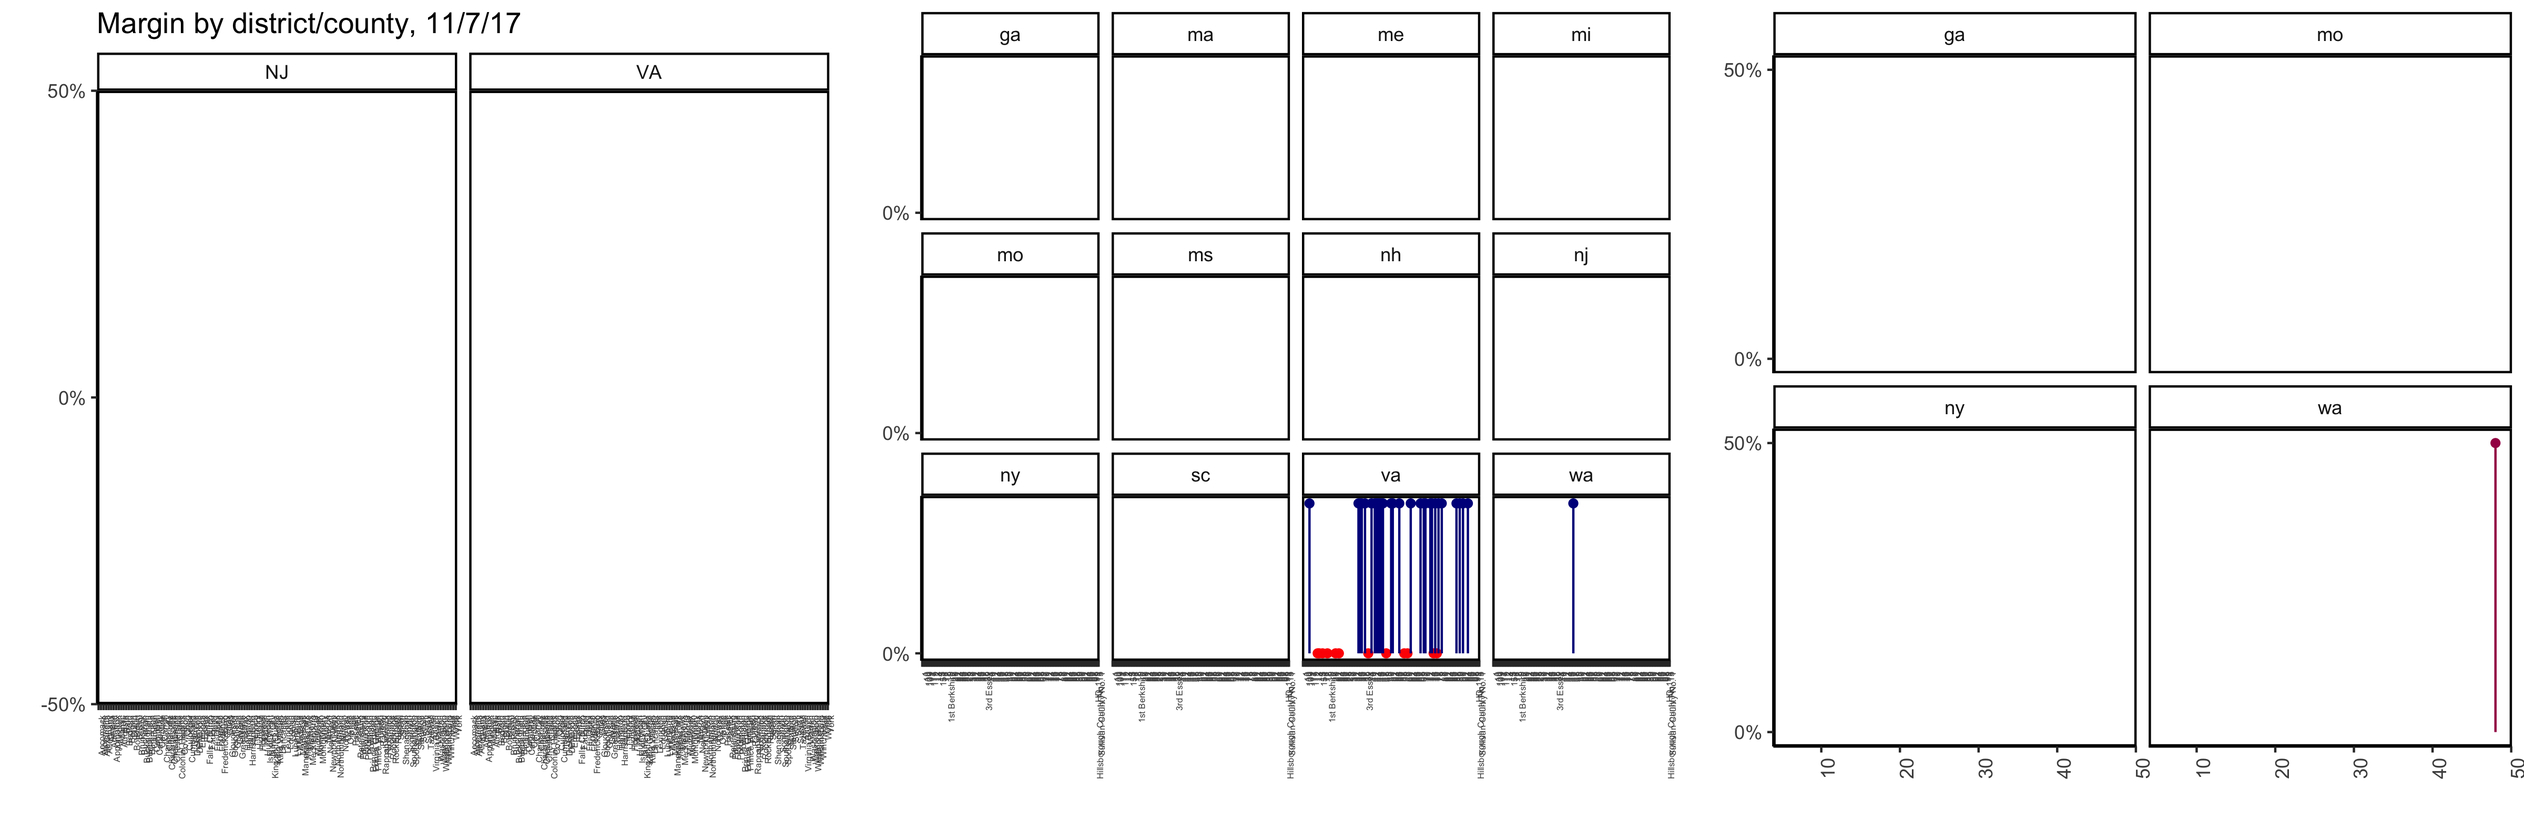
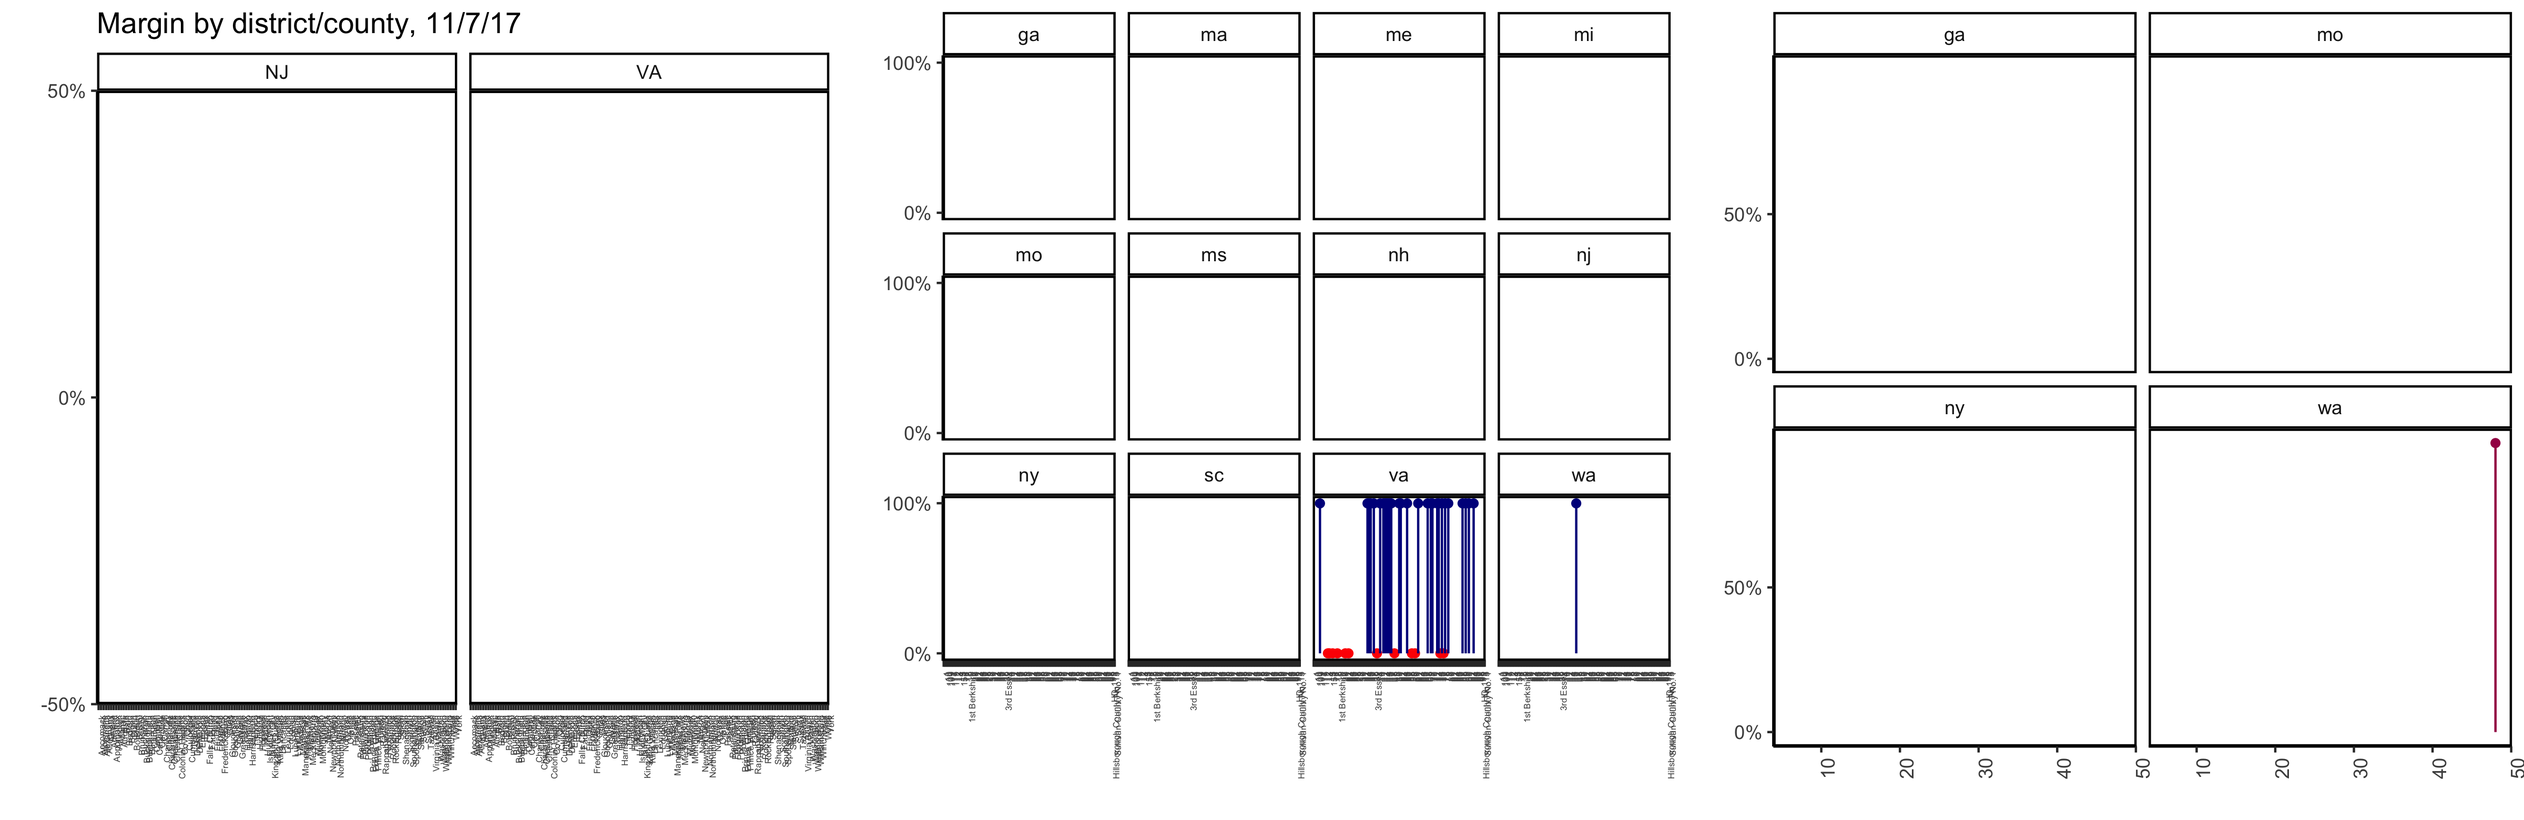
fixed denominator

diff --git a/_posts/r_election_tracker.md b/_posts/r_election_tracker.md
@@ -206,7 +206,7 @@ Here is the data that goes into these graphs.
 | wa    |      31|          -1.0000|               NA|
 | wa    |      45|          -0.0540|               NA|
 | wa    |       7|          -1.0000|               NA|
-| wa    |      48|           0.2980|              0.5|
+| wa    |      48|           0.2980|         0.999001|
 | wa    |      37|           1.0000|               NA|
 
 | State | County                     |  Previous margin|  Tonights margin|
@@ -276,27 +276,27 @@ Here is the data that goes into these graphs.
 | va    | 1                          |       -1.0000000|               NA|
 | va    | 2                          |       -0.0200000|               NA|
 | va    | 3                          |       -1.0000000|               NA|
-| va    | 4                          |       -1.0000000|              0.0|
-| va    | 5                          |       -1.0000000|              0.0|
-| va    | 6                          |       -1.0000000|              0.0|
+| va    | 4                          |       -1.0000000|         0.000000|
+| va    | 5                          |       -1.0000000|         0.000000|
+| va    | 6                          |       -1.0000000|         0.000000|
 | va    | 7                          |       -1.0000000|               NA|
 | va    | 8                          |       -1.0000000|               NA|
 | va    | 9                          |       -1.0000000|               NA|
 | va    | 10                         |       -0.2400000|               NA|
-| va    | 11                         |        1.0000000|              0.5|
+| va    | 11                         |        1.0000000|         0.999001|
 | va    | 12                         |       -0.1600000|               NA|
 | va    | 13                         |       -0.1200000|               NA|
-| va    | 14                         |       -1.0000000|              0.0|
-| va    | 15                         |       -1.0000000|              0.0|
-| va    | 16                         |       -1.0000000|              0.0|
+| va    | 14                         |       -1.0000000|         0.000000|
+| va    | 15                         |       -1.0000000|         0.000000|
+| va    | 16                         |       -1.0000000|         0.000000|
 | va    | 17                         |       -1.0000000|               NA|
 | va    | 18                         |       -1.0000000|               NA|
-| va    | 19                         |       -1.0000000|              0.0|
+| va    | 19                         |       -1.0000000|         0.000000|
 | va    | 20                         |       -0.5200000|               NA|
 | va    | 21                         |       -0.1400000|               NA|
-| va    | 22                         |       -1.0000000|              0.0|
+| va    | 22                         |       -1.0000000|         0.000000|
 | va    | 23                         |       -1.0000000|               NA|
-| va    | 24                         |       -0.4200000|              0.0|
+| va    | 24                         |       -0.4200000|         0.000000|
 | va    | 25                         |       -0.3200000|               NA|
 | va    | 26                         |       -1.0000000|               NA|
 | va    | 27                         |       -0.1800000|               NA|
@@ -307,52 +307,52 @@ Here is the data that goes into these graphs.
 | va    | 32                         |       -0.0600000|               NA|
 | va    | 33                         |       -0.2500000|               NA|
 | va    | 34                         |        0.0000000|               NA|
-| va    | 35                         |        1.0000000|              0.5|
-| va    | 36                         |        1.0000000|              0.5|
-| va    | 37                         |        0.1400000|              0.5|
+| va    | 35                         |        1.0000000|         0.999001|
+| va    | 36                         |        1.0000000|         0.999001|
+| va    | 37                         |        0.1400000|         0.999001|
 | va    | 38                         |        0.5000000|               NA|
-| va    | 39                         |        1.0000000|              0.5|
+| va    | 39                         |        1.0000000|         0.999001|
 | va    | 40                         |       -0.3000000|               NA|
-| va    | 41                         |        1.0000000|              0.5|
+| va    | 41                         |        1.0000000|         0.999001|
 | va    | 42                         |       -0.2600000|               NA|
-| va    | 43                         |        0.3094995|              0.5|
-| va    | 44                         |        1.0000000|              0.5|
-| va    | 45                         |        1.0000000|              0.5|
-| va    | 46                         |        0.3430186|              0.5|
-| va    | 47                         |        0.5600000|              0.5|
-| va    | 48                         |        1.0000000|              0.5|
+| va    | 43                         |        0.3094995|         0.999001|
+| va    | 44                         |        1.0000000|         0.999001|
+| va    | 45                         |        1.0000000|         0.999001|
+| va    | 46                         |        0.3430186|         0.999001|
+| va    | 47                         |        0.5600000|         0.999001|
+| va    | 48                         |        1.0000000|         0.999001|
 | va    | 49                         |        1.0000000|               NA|
 | va    | 50                         |       -0.1800000|               NA|
 | va    | 51                         |       -1.0000000|               NA|
-| va    | 52                         |        1.0000000|              0.5|
-| va    | 53                         |        1.0000000|              0.5|
+| va    | 52                         |        1.0000000|         0.999001|
+| va    | 53                         |        1.0000000|         0.999001|
 | va    | 54                         |       -1.0000000|               NA|
 | va    | 55                         |       -0.2000000|               NA|
 | va    | 56                         |       -1.0000000|               NA|
-| va    | 57                         |        1.0000000|              0.5|
+| va    | 57                         |        1.0000000|         0.999001|
 | va    | 58                         |       -1.0000000|               NA|
 | va    | 59                         |       -1.0000000|               NA|
 | va    | 60                         |       -1.0000000|               NA|
-| va    | 61                         |       -0.4200000|              0.0|
+| va    | 61                         |       -0.4200000|         0.000000|
 | va    | 62                         |       -0.2000000|               NA|
-| va    | 63                         |        1.0000000|              0.5|
+| va    | 63                         |        1.0000000|         0.999001|
 | va    | 64                         |       -1.0000000|               NA|
 | va    | 65                         |       -1.0000000|               NA|
 | va    | 66                         |       -1.0000000|               NA|
 | va    | 67                         |       -1.0000000|               NA|
 | va    | 68                         |       -0.2478476|               NA|
-| va    | 69                         |        1.0000000|              0.5|
-| va    | 70                         |        1.0000000|              0.5|
-| va    | 71                         |        0.7600000|              0.5|
+| va    | 69                         |        1.0000000|         0.999001|
+| va    | 70                         |        1.0000000|         0.999001|
+| va    | 71                         |        0.7600000|         0.999001|
 | va    | 72                         |       -1.0000000|               NA|
 | va    | 73                         |       -1.0000000|               NA|
-| va    | 74                         |        0.5800000|              0.5|
-| va    | 75                         |        1.0000000|              0.5|
-| va    | 76                         |       -1.0000000|              0.0|
-| va    | 77                         |        1.0000000|              0.5|
-| va    | 78                         |       -1.0000000|              0.0|
-| va    | 79                         |        1.0000000|              0.5|
-| va    | 80                         |        1.0000000|              0.5|
+| va    | 74                         |        0.5800000|         0.999001|
+| va    | 75                         |        1.0000000|         0.999001|
+| va    | 76                         |       -1.0000000|         0.000000|
+| va    | 77                         |        1.0000000|         0.999001|
+| va    | 78                         |       -1.0000000|         0.000000|
+| va    | 79                         |        1.0000000|         0.999001|
+| va    | 80                         |        1.0000000|         0.999001|
 | va    | 81                         |       -0.4000000|               NA|
 | va    | 82                         |       -0.3000000|               NA|
 | va    | 83                         |       -1.0000000|               NA|
@@ -361,13 +361,13 @@ Here is the data that goes into these graphs.
 | va    | 86                         |        0.0897360|               NA|
 | va    | 87                         |       -0.0017054|               NA|
 | va    | 88                         |       -1.0000000|               NA|
-| va    | 89                         |        1.0000000|              0.5|
-| va    | 90                         |        1.0000000|              0.5|
+| va    | 89                         |        1.0000000|         0.999001|
+| va    | 90                         |        1.0000000|         0.999001|
 | va    | 91                         |       -1.0000000|               NA|
-| va    | 92                         |        1.0000000|              0.5|
+| va    | 92                         |        1.0000000|         0.999001|
 | va    | 93                         |        0.1000000|               NA|
 | va    | 94                         |       -0.1600000|               NA|
-| va    | 95                         |        0.5400000|              0.5|
+| va    | 95                         |        0.5400000|         0.999001|
 | va    | 96                         |       -0.2200000|               NA|
 | va    | 97                         |       -0.5800000|               NA|
 | va    | 98                         |       -1.0000000|               NA|
@@ -375,4 +375,4 @@ Here is the data that goes into these graphs.
 | va    | 100                        |       -0.1400000|               NA|
 | wa    | 7                          |       -1.0000000|               NA|
 | wa    | 31                         |       -1.0000000|               NA|
-| wa    | 48                         |        1.0000000|              0.5|
+| wa    | 48                         |        1.0000000|         0.999001|

diff --git a/_posts/2017-11-07-election_tracker.md b/_posts/2017-11-07-election_tracker.md
@@ -225,7 +225,7 @@ Here is the data that goes into these graphs.
 |wa    |     31|         -1.0000|              NA|
 |wa    |     45|         -0.0540|              NA|
 |wa    |      7|         -1.0000|              NA|
-|wa    |     48|          0.2980|             0.5|
+|wa    |     48|          0.2980|        0.999001|
 |wa    |     37|          1.0000|              NA|
 
 
@@ -297,27 +297,27 @@ Here is the data that goes into these graphs.
 |va    |1                          |      -1.0000000|              NA|
 |va    |2                          |      -0.0200000|              NA|
 |va    |3                          |      -1.0000000|              NA|
-|va    |4                          |      -1.0000000|             0.0|
-|va    |5                          |      -1.0000000|             0.0|
-|va    |6                          |      -1.0000000|             0.0|
+|va    |4                          |      -1.0000000|        0.000000|
+|va    |5                          |      -1.0000000|        0.000000|
+|va    |6                          |      -1.0000000|        0.000000|
 |va    |7                          |      -1.0000000|              NA|
 |va    |8                          |      -1.0000000|              NA|
 |va    |9                          |      -1.0000000|              NA|
 |va    |10                         |      -0.2400000|              NA|
-|va    |11                         |       1.0000000|             0.5|
+|va    |11                         |       1.0000000|        0.999001|
 |va    |12                         |      -0.1600000|              NA|
 |va    |13                         |      -0.1200000|              NA|
-|va    |14                         |      -1.0000000|             0.0|
-|va    |15                         |      -1.0000000|             0.0|
-|va    |16                         |      -1.0000000|             0.0|
+|va    |14                         |      -1.0000000|        0.000000|
+|va    |15                         |      -1.0000000|        0.000000|
+|va    |16                         |      -1.0000000|        0.000000|
 |va    |17                         |      -1.0000000|              NA|
 |va    |18                         |      -1.0000000|              NA|
-|va    |19                         |      -1.0000000|             0.0|
+|va    |19                         |      -1.0000000|        0.000000|
 |va    |20                         |      -0.5200000|              NA|
 |va    |21                         |      -0.1400000|              NA|
-|va    |22                         |      -1.0000000|             0.0|
+|va    |22                         |      -1.0000000|        0.000000|
 |va    |23                         |      -1.0000000|              NA|
-|va    |24                         |      -0.4200000|             0.0|
+|va    |24                         |      -0.4200000|        0.000000|
 |va    |25                         |      -0.3200000|              NA|
 |va    |26                         |      -1.0000000|              NA|
 |va    |27                         |      -0.1800000|              NA|
@@ -328,52 +328,52 @@ Here is the data that goes into these graphs.
 |va    |32                         |      -0.0600000|              NA|
 |va    |33                         |      -0.2500000|              NA|
 |va    |34                         |       0.0000000|              NA|
-|va    |35                         |       1.0000000|             0.5|
-|va    |36                         |       1.0000000|             0.5|
-|va    |37                         |       0.1400000|             0.5|
+|va    |35                         |       1.0000000|        0.999001|
+|va    |36                         |       1.0000000|        0.999001|
+|va    |37                         |       0.1400000|        0.999001|
 |va    |38                         |       0.5000000|              NA|
-|va    |39                         |       1.0000000|             0.5|
+|va    |39                         |       1.0000000|        0.999001|
 |va    |40                         |      -0.3000000|              NA|
-|va    |41                         |       1.0000000|             0.5|
+|va    |41                         |       1.0000000|        0.999001|
 |va    |42                         |      -0.2600000|              NA|
-|va    |43                         |       0.3094995|             0.5|
-|va    |44                         |       1.0000000|             0.5|
-|va    |45                         |       1.0000000|             0.5|
-|va    |46                         |       0.3430186|             0.5|
-|va    |47                         |       0.5600000|             0.5|
-|va    |48                         |       1.0000000|             0.5|
+|va    |43                         |       0.3094995|        0.999001|
+|va    |44                         |       1.0000000|        0.999001|
+|va    |45                         |       1.0000000|        0.999001|
+|va    |46                         |       0.3430186|        0.999001|
+|va    |47                         |       0.5600000|        0.999001|
+|va    |48                         |       1.0000000|        0.999001|
 |va    |49                         |       1.0000000|              NA|
 |va    |50                         |      -0.1800000|              NA|
 |va    |51                         |      -1.0000000|              NA|
-|va    |52                         |       1.0000000|             0.5|
-|va    |53                         |       1.0000000|             0.5|
+|va    |52                         |       1.0000000|        0.999001|
+|va    |53                         |       1.0000000|        0.999001|
 |va    |54                         |      -1.0000000|              NA|
 |va    |55                         |      -0.2000000|              NA|
 |va    |56                         |      -1.0000000|              NA|
-|va    |57                         |       1.0000000|             0.5|
+|va    |57                         |       1.0000000|        0.999001|
 |va    |58                         |      -1.0000000|              NA|
 |va    |59                         |      -1.0000000|              NA|
 |va    |60                         |      -1.0000000|              NA|
-|va    |61                         |      -0.4200000|             0.0|
+|va    |61                         |      -0.4200000|        0.000000|
 |va    |62                         |      -0.2000000|              NA|
-|va    |63                         |       1.0000000|             0.5|
+|va    |63                         |       1.0000000|        0.999001|
 |va    |64                         |      -1.0000000|              NA|
 |va    |65                         |      -1.0000000|              NA|
 |va    |66                         |      -1.0000000|              NA|
 |va    |67                         |      -1.0000000|              NA|
 |va    |68                         |      -0.2478476|              NA|
-|va    |69                         |       1.0000000|             0.5|
-|va    |70                         |       1.0000000|             0.5|
-|va    |71                         |       0.7600000|             0.5|
+|va    |69                         |       1.0000000|        0.999001|
+|va    |70                         |       1.0000000|        0.999001|
+|va    |71                         |       0.7600000|        0.999001|
 |va    |72                         |      -1.0000000|              NA|
 |va    |73                         |      -1.0000000|              NA|
-|va    |74                         |       0.5800000|             0.5|
-|va    |75                         |       1.0000000|             0.5|
-|va    |76                         |      -1.0000000|             0.0|
-|va    |77                         |       1.0000000|             0.5|
-|va    |78                         |      -1.0000000|             0.0|
-|va    |79                         |       1.0000000|             0.5|
-|va    |80                         |       1.0000000|             0.5|
+|va    |74                         |       0.5800000|        0.999001|
+|va    |75                         |       1.0000000|        0.999001|
+|va    |76                         |      -1.0000000|        0.000000|
+|va    |77                         |       1.0000000|        0.999001|
+|va    |78                         |      -1.0000000|        0.000000|
+|va    |79                         |       1.0000000|        0.999001|
+|va    |80                         |       1.0000000|        0.999001|
 |va    |81                         |      -0.4000000|              NA|
 |va    |82                         |      -0.3000000|              NA|
 |va    |83                         |      -1.0000000|              NA|
@@ -382,13 +382,13 @@ Here is the data that goes into these graphs.
 |va    |86                         |       0.0897360|              NA|
 |va    |87                         |      -0.0017054|              NA|
 |va    |88                         |      -1.0000000|              NA|
-|va    |89                         |       1.0000000|             0.5|
-|va    |90                         |       1.0000000|             0.5|
+|va    |89                         |       1.0000000|        0.999001|
+|va    |90                         |       1.0000000|        0.999001|
 |va    |91                         |      -1.0000000|              NA|
-|va    |92                         |       1.0000000|             0.5|
+|va    |92                         |       1.0000000|        0.999001|
 |va    |93                         |       0.1000000|              NA|
 |va    |94                         |      -0.1600000|              NA|
-|va    |95                         |       0.5400000|             0.5|
+|va    |95                         |       0.5400000|        0.999001|
 |va    |96                         |      -0.2200000|              NA|
 |va    |97                         |      -0.5800000|              NA|
 |va    |98                         |      -1.0000000|              NA|
@@ -396,4 +396,4 @@ Here is the data that goes into these graphs.
 |va    |100                        |      -0.1400000|              NA|
 |wa    |7                          |      -1.0000000|              NA|
 |wa    |31                         |      -1.0000000|              NA|
-|wa    |48                         |       1.0000000|             0.5|
+|wa    |48                         |       1.0000000|        0.999001|
